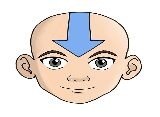
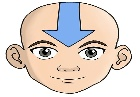
Update Files

diff --git a/index.html b/index.html
@@ -448,7 +448,7 @@
     </p>
     <div class="title">Parte 3: A baixo segue a foto da montagem da equipe com avatar feito com OpenCV</div>
     <p class="section-content">
-      <img src="img/Equipe.png">
+      <img src="img/Equipe_avatar.jpg">
     </p>
   </div>
 

diff --git a/Lab1_arquivos/L1_5_montagem_avatar.py b/Lab1_arquivos/L1_5_montagem_avatar.py
@@ -39,7 +39,7 @@ def adicionar_avatar(img_origin: str, img_add: str, x: int, y: int, fl: bool = F
 
     # Exibir a imagem resultante
     cv2.imshow("Imagem com a figura", imagem)
-    cv2.imwrite("./img/Equipe_avatar.png", imagem)
+    cv2.imwrite("./img/Equipe_avatar.jpg", imagem)
     cv2.waitKey(0)
     cv2.destroyAllWindows()
 
@@ -56,12 +56,14 @@ def recortar_figura(img: str, board: int, resized: bool, scale: int):
     
     frame = frame[board:-board, board:-board]
 
-    # cv2.imshow("Imagem Recortada", frame)
-    cv2.imwrite(filename='./img/avatar1_recortada.jpg', img = frame)
+    cv2.imshow("Imagem Recortada", frame)
+    cv2.imwrite(filename='./img/avatar2_recortada.jpg', img = frame)
     cv2.waitKey(0)
     cv2.destroyAllWindows()
     return frame[board:-board, board:-board]
 
-avatar1_img = recortar_figura(img="./img/avatar2.jpg", board= 48, resized= True, scale = 4)
-team_img = adicionar_avatar(img_origin="./img/Equipe.png", img_add=f"./img/avatar1_recortada.jpg", x = 174, y=18, fl=False)
+avatar1_img = recortar_figura(img="./img/avatar2.jpg", board= 45, resized= True, scale = 4)
 
+adicionar_avatar(img_origin="./img/Equipe.png", img_add=f"./img/avatar2_recortada.jpg", x = 174, y=18, fl=False)
+recortar_figura(img="./img/avatar1.jpg", board= 10, resized= False, scale = 1)
+adicionar_avatar(img_origin="./img/Equipe_avatar.jpg", img_add=f"./img/avatar1_recortado.jpg", x = 20, y=18, fl=False)
